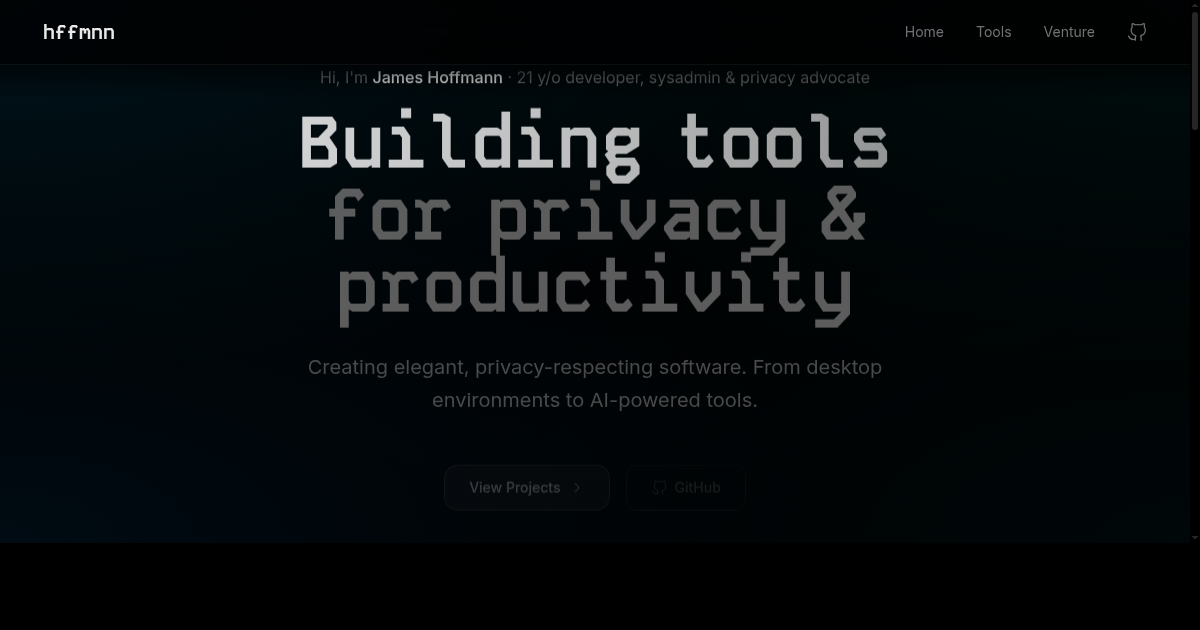
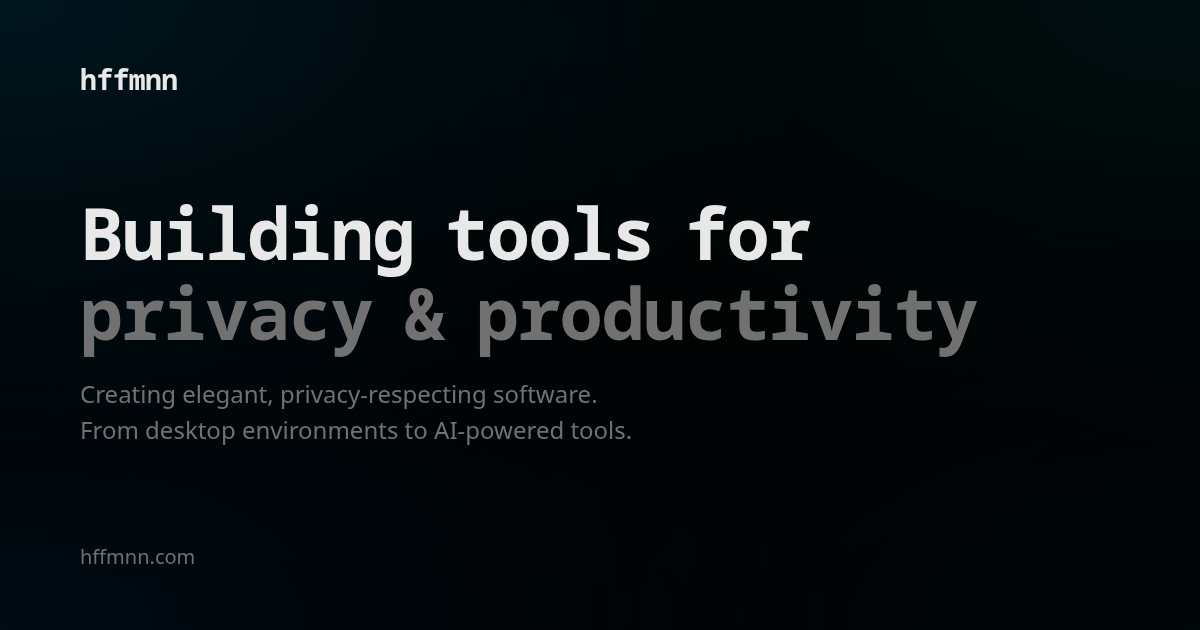
feat: add OG image generation from HTML templates
Add Puppeteer-based build script to generate OG images from HTML/CSS templates instead of taking screenshots of live pages. This ensures consistent, reliable OG images.

- Add scripts/generate-og-images.ts with templates for home, tools, and venture pages
- Add og:generate npm script to package.json
- Update OG images with new template-based versions

diff --git a/scripts/generate-og-images.ts b/scripts/generate-og-images.ts
@@ -1,0 +1,184 @@
+import puppeteer from "puppeteer";
+import { join } from "path";
+
+const WIDTH = 1200;
+const HEIGHT = 630;
+
+// Design tokens from app.css
+const COLORS = {
+  foreground: "oklch(93% 0 0)",
+  muted: "oklch(55% 0 0)",
+  pulsyn: "oklch(75% 0.18 160)",
+};
+
+// Mesh gradient from app.css (blue variant)
+const MESH_GRADIENT = `
+  background-color: #000;
+  background-image:
+    radial-gradient(at 0% 0%, oklch(18% 0.04 220) 0px, transparent 50%),
+    radial-gradient(at 100% 0%, oklch(15% 0.03 200) 0px, transparent 50%),
+    radial-gradient(at 100% 100%, oklch(12% 0.02 210) 0px, transparent 50%),
+    radial-gradient(at 0% 100%, oklch(14% 0.03 230) 0px, transparent 50%),
+    radial-gradient(at 50% 50%, oklch(8% 0.02 215) 0px, transparent 70%);
+`;
+
+// Font paths from fontsource packages
+const FONT_PATHS = {
+  kodeMono: join(
+    process.cwd(),
+    "node_modules/@fontsource-variable/kode-mono/files/kode-mono-latin-wght-normal.woff2"
+  ),
+  inter: join(
+    process.cwd(),
+    "node_modules/@fontsource-variable/inter/files/inter-latin-wght-normal.woff2"
+  ),
+};
+
+// Base HTML template wrapper
+function baseTemplate(content: string): string {
+  return `<!DOCTYPE html>
+<html>
+<head>
+  <style>
+    @font-face {
+      font-family: 'Kode Mono Variable';
+      src: url('file://${FONT_PATHS.kodeMono}') format('woff2');
+      font-weight: 100 900;
+    }
+    @font-face {
+      font-family: 'Inter Variable';
+      src: url('file://${FONT_PATHS.inter}') format('woff2');
+      font-weight: 100 900;
+    }
+    * { margin: 0; padding: 0; box-sizing: border-box; }
+    body {
+      width: ${WIDTH}px;
+      height: ${HEIGHT}px;
+      ${MESH_GRADIENT}
+      font-family: 'Inter Variable', system-ui, sans-serif;
+      color: ${COLORS.foreground};
+      display: flex;
+      flex-direction: column;
+      padding: 60px 80px;
+    }
+    .logo {
+      font-family: 'Kode Mono Variable', monospace;
+      font-size: 28px;
+      font-weight: 700;
+      letter-spacing: -0.02em;
+    }
+    h1 {
+      font-family: 'Kode Mono Variable', monospace;
+      font-weight: 700;
+      word-spacing: -0.15em;
+      letter-spacing: -0.02em;
+    }
+    .muted { color: ${COLORS.muted}; }
+    .pulsyn-color { color: ${COLORS.pulsyn}; }
+    .badge {
+      display: inline-block;
+      padding: 8px 16px;
+      border-radius: 9999px;
+      font-size: 14px;
+      font-weight: 500;
+      background: rgba(100, 200, 150, 0.1);
+      border: 1px solid rgba(100, 200, 150, 0.3);
+      color: ${COLORS.pulsyn};
+    }
+    .url {
+      font-size: 20px;
+      color: ${COLORS.muted};
+    }
+    .content {
+      flex: 1;
+      display: flex;
+      flex-direction: column;
+      justify-content: center;
+    }
+  </style>
+</head>
+<body>
+  ${content}
+</body>
+</html>`;
+}
+
+// Template definitions
+const templates: Record<string, () => string> = {
+  home: () =>
+    baseTemplate(`
+    <div class="logo">hffmnn</div>
+    <div class="content">
+      <h1 style="font-size: 72px; line-height: 1.1; margin-bottom: 24px;">
+        Building tools for<br>
+        <span class="muted">privacy & productivity</span>
+      </h1>
+      <p style="font-size: 24px; color: ${COLORS.muted}; max-width: 700px; line-height: 1.5;">
+        Creating elegant, privacy-respecting software.<br>
+        From desktop environments to AI-powered tools.
+      </p>
+    </div>
+    <div class="url">hffmnn.com</div>
+  `),
+
+  tools: () =>
+    baseTemplate(`
+    <div class="logo">hffmnn</div>
+    <div class="content">
+      <h1 style="font-size: 72px; margin-bottom: 24px;">Tools & Projects</h1>
+      <p style="font-size: 24px; color: ${COLORS.muted}; max-width: 700px; line-height: 1.5;">
+        Open-source projects focused on privacy,<br>
+        productivity, and beautiful design.
+      </p>
+    </div>
+    <div class="url">hffmnn.com/tools</div>
+  `),
+
+  venture: () =>
+    baseTemplate(`
+    <div class="logo">hffmnn</div>
+    <div class="content">
+      <span class="badge" style="margin-bottom: 20px; width: fit-content;">Current Venture</span>
+      <h1 style="font-size: 80px; margin-bottom: 16px;">Pulsyn</h1>
+      <p style="font-size: 32px; color: ${COLORS.muted}; margin-bottom: 16px; font-style: italic;">
+        Premium Smart Ring. Half the Price.
+      </p>
+      <p style="font-size: 20px; color: ${COLORS.muted}; max-width: 700px; line-height: 1.5;">
+        Track sleep, fitness, and recovery with clinical-grade sensors for $149.
+      </p>
+    </div>
+    <div class="url">hffmnn.com/venture</div>
+  `),
+};
+
+async function generateOGImages() {
+  console.log("Generating OG images...\n");
+
+  const browser = await puppeteer.launch({
+    headless: true,
+    args: ["--no-sandbox", "--disable-setuid-sandbox"],
+  });
+
+  const page = await browser.newPage();
+  await page.setViewport({ width: WIDTH, height: HEIGHT });
+
+  for (const [name, templateFn] of Object.entries(templates)) {
+    const html = templateFn();
+    await page.setContent(html, { waitUntil: "domcontentloaded" });
+
+    // Wait for fonts to load and render
+    await page.evaluate(() => document.fonts.ready);
+    await new Promise((r) => setTimeout(r, 1000));
+
+    const outputName = name === "home" ? "og-image.png" : `og-${name}.png`;
+    const outputPath = join(process.cwd(), "static", outputName);
+
+    await page.screenshot({ path: outputPath, type: "png" });
+    console.log(`  ${outputName}`);
+  }
+
+  await browser.close();
+  console.log("\nDone!");
+}
+
+generateOGImages().catch(console.error);
